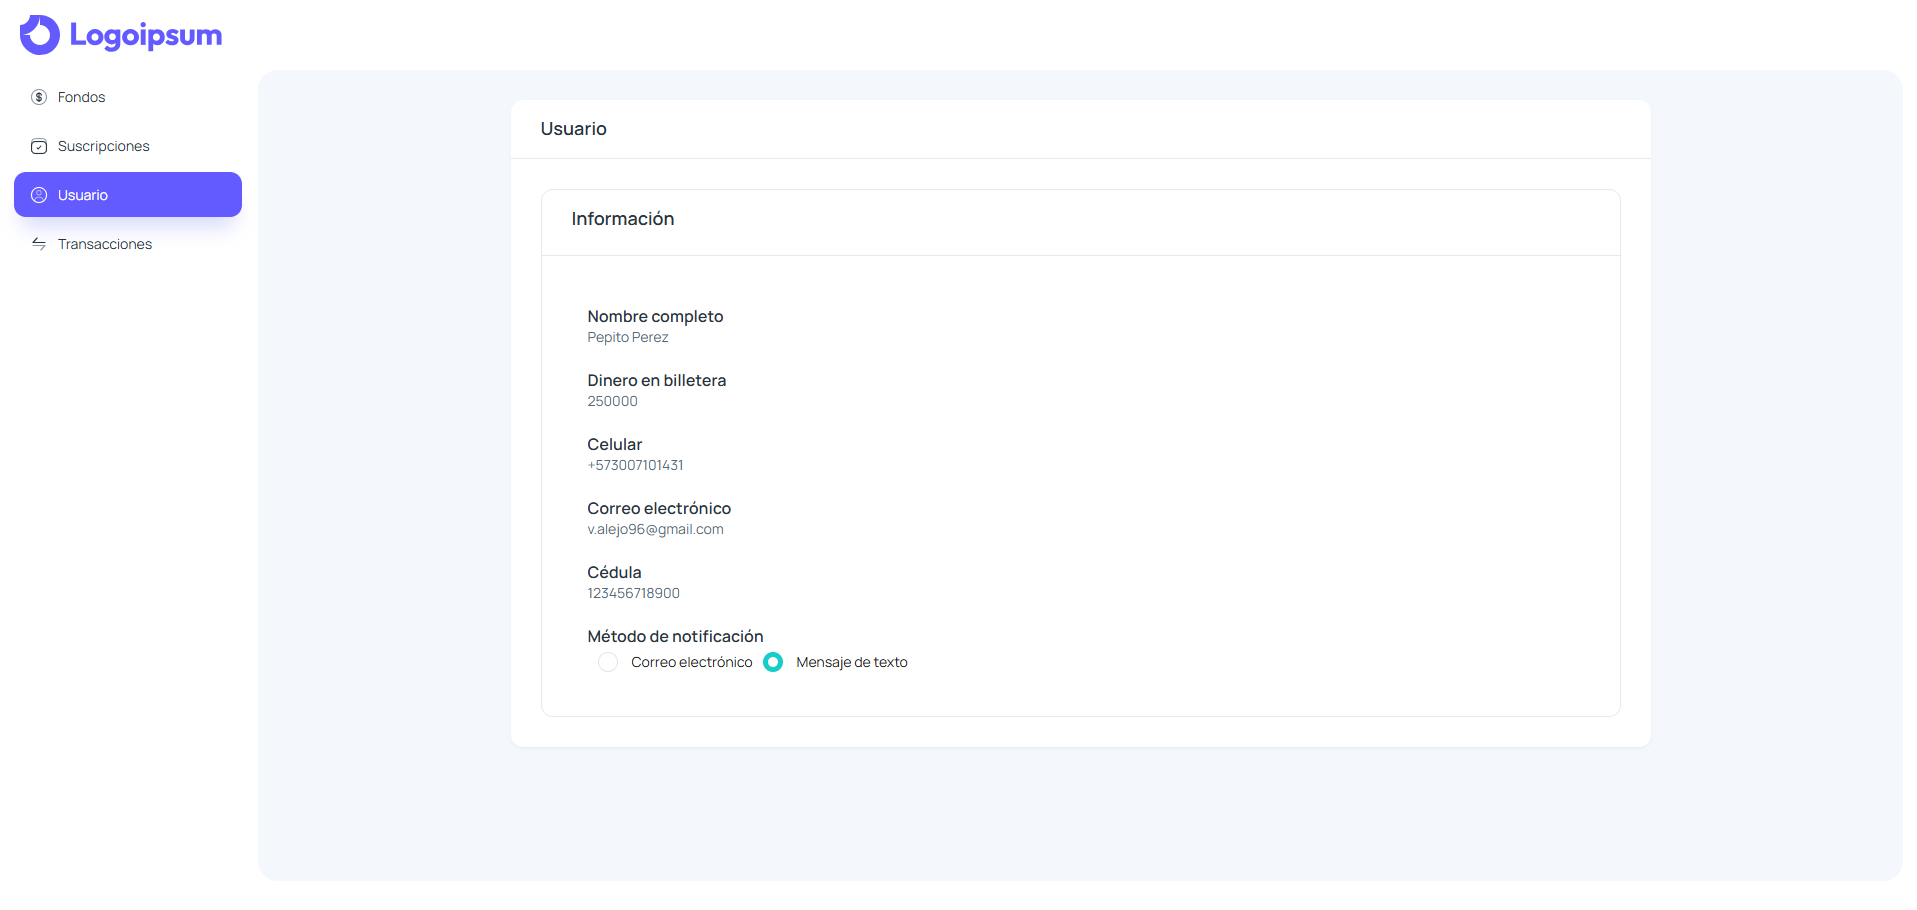
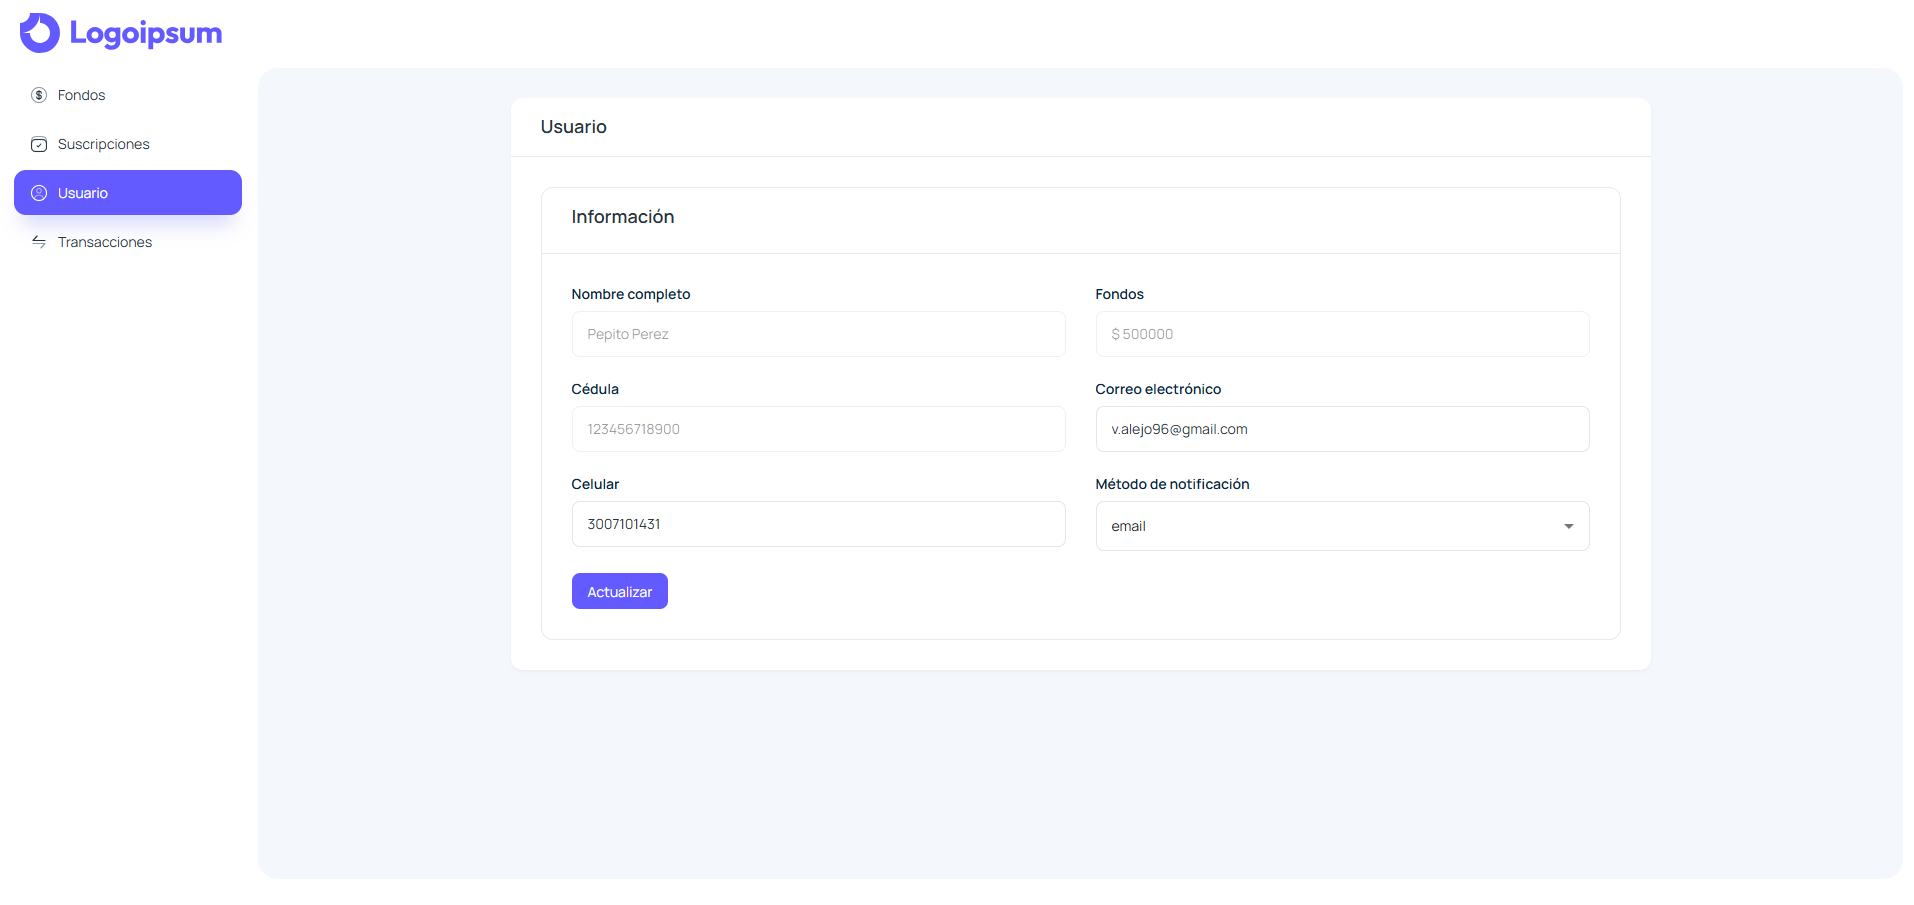
Update readme

diff --git a/README.md b/README.md
@@ -30,7 +30,7 @@ En esta sección, el usuario puede observar que suscripciones tiene activas y pu
 
 ### Usuario
 
-Aquí podrá observar la información del usuario activo y seleccionar el método de notificación (mensaje de texto o correo electrónico).
+Aquí se observa y actualiza la información del usuario activo. Aquí se configura el método de notificación de las suscripciones.
 
 ![alt text](images/usuario.png)
 
